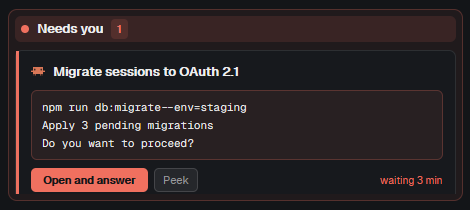
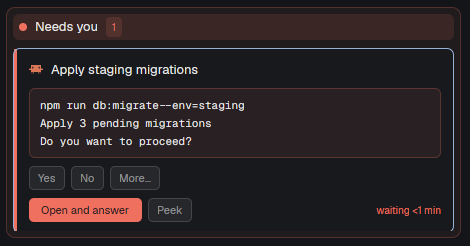
Refresh screenshots and demos with card answer controls
Replace the English and Portuguese usage images, full previews and GIFs
with native Herdr captures showing Yes/No/More and the card answer flow.
Update paired README and guide captions and alt text.

The demo driver supplies fictional tasks, status reports and a numbered
permission dialog. The recordings use the unmodified Herdboard mod and
real pointer clicks through hc read/keys; only digit 1 is received before
the same terminal reports Working again. No AI provider or migration runs.

Captured with herdr-app 0.1.14 and hc 0.1.19 at 1920x1032 (previews),
470x246 (usage crops) and 1236x316 (GIFs).

Validation: all three mod checks and 393 tests pass; JavaScript typecheck
passes; both GIF loops and local images verified in rendered EN/PT docs.
Independent Standards and Spec reviews found no issues.

Closes #5

Changed region(s): [[0.0, 0.0286, 1.0, 0.9714]]

diff --git a/docs/guide.pt-BR.md b/docs/guide.pt-BR.md
@@ -26,10 +26,10 @@ Quando um agente para e pergunta algo, o card dele vai para **Precisa de você**
 coluna fica vermelha. Se ele estiver em outro espaço, esse espaço também fica vermelho
 no cabeçalho.
 
-<img src="images/usage-needs-you.pt-BR.png" width="470" alt="Coluna Precisa de você com um card bloqueado mostrando a pergunta do agente e os botões Abrir e responder e Espiar">
+<img src="images/usage-needs-you.pt-BR.png" width="470" alt="Coluna Precisa de você com um card de permissão bloqueado mostrando a pergunta, Sim, Não, Mais…, Abrir e responder, Espiar e o tempo de espera">
 
-*Um agente bloqueado: a pergunta dele, **Abrir e responder**, **Espiar** e há quanto
-tempo ele está esperando.*
+*Pedido de permissão de exemplo no Herdr: a pergunta, **Sim / Não / Mais…**,
+**Abrir e responder**, **Espiar** e há quanto tempo o agente está esperando.*
 
 1. Leia a pergunta no próprio card: ele mostra as últimas linhas da tela do agente,
    sem molduras nem linhas separadoras (assim aparece o comando entre as linhas

diff --git a/README.pt-BR.md b/README.pt-BR.md
@@ -13,9 +13,9 @@
 
 <p align="center"><a href="README.md">English</a> · <b>Português (Brasil)</b></p>
 
-<p align="center"><img src="docs/images/demo.pt-BR.gif" alt="Animação: um agente trabalhando; ele para e pede permissão, e o card vai para Precisa de você mostrando a pergunta; depois da resposta volta para Trabalhando"></p>
+<p align="center"><img src="docs/images/demo.pt-BR.gif" alt="Animação: um agente vai de Trabalhando para Precisa de você com um pedido de permissão e os botões Sim, Não e Mais…; o clique em Sim no card devolve o mesmo agente a Trabalhando"></p>
 
-<p align="center"><sub>Dados de exemplo. Um agente pede permissão: o card dele vai para <b>Precisa de você</b> com a pergunta; depois de respondido, volta para <b>Trabalhando</b>.</sub></p>
+<p align="center"><sub>Dados de exemplo no Herdr. Um pedido de permissão leva o agente a <b>Precisa de você</b>, com <b>Sim / Não / Mais…</b> no card. O clique em <b>Sim</b> ali o devolve a <b>Trabalhando</b>.</sub></p>
 
 ## Instalação
 

diff --git a/docs/guide.md b/docs/guide.md
@@ -25,9 +25,10 @@ stay on the active space's machine.
 When an agent stops to ask something, its card jumps to **Needs you** and the column
 turns red. If it's in another space, that space's pill in the header turns red too.
 
-<img src="images/usage-needs-you.png" width="470" alt="Needs you column with a blocked card showing the agent's question and the Open and answer and Peek buttons">
+<img src="images/usage-needs-you.png" width="470" alt="Needs you column with a blocked permission card showing the question, Yes, No, More…, Open and answer, Peek and waiting time">
 
-*A blocked agent: its question, **Open and answer**, **Peek** and how long it has been waiting.*
+*Demo permission request in Herdr: the question, **Yes / No / More…**, **Open and
+answer**, **Peek** and how long the agent has been waiting.*
 
 1. Read the question right on the card: it shows the last lines of the agent's
    screen, without frames or separator lines (so a command between Claude Code's

diff --git a/README.md b/README.md
@@ -13,9 +13,9 @@
 
 <p align="center"><b>English</b> · <a href="README.pt-BR.md">Português (Brasil)</a></p>
 
-<p align="center"><img src="docs/images/demo.gif" alt="Animation: an agent working; it stops to ask for permission and its card moves to Needs you, showing the question; after the answer it goes back to Working"></p>
+<p align="center"><img src="docs/images/demo.gif" alt="Animation: an agent moves from Working to Needs you with a permission question and Yes, No and More… buttons; clicking Yes on its card returns the same agent to Working"></p>
 
-<p align="center"><sub>Demo data. An agent asks for permission: its card moves to <b>Needs you</b> with the question; once answered, it goes back to <b>Working</b>.</sub></p>
+<p align="center"><sub>Demo data in Herdr. A permission request moves the agent to <b>Needs you</b>, with <b>Yes / No / More…</b> on its card. Clicking <b>Yes</b> there returns it to <b>Working</b>.</sub></p>
 
 ## Install
 
